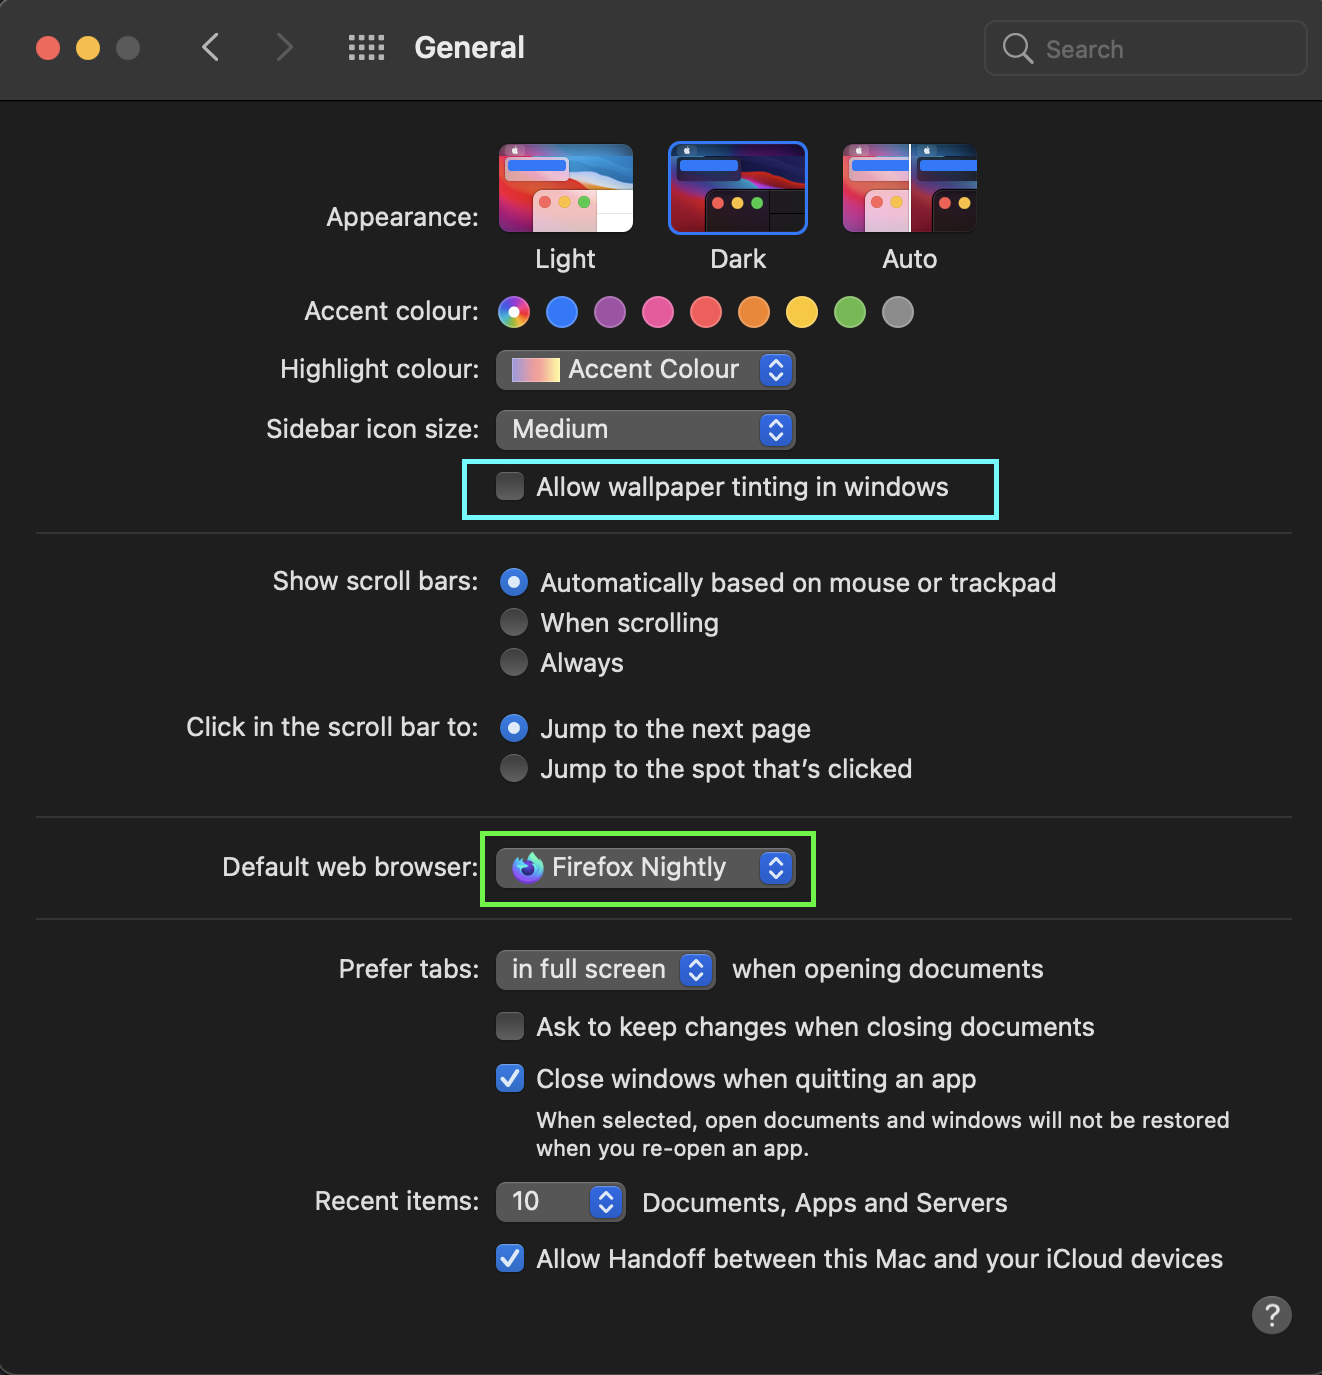
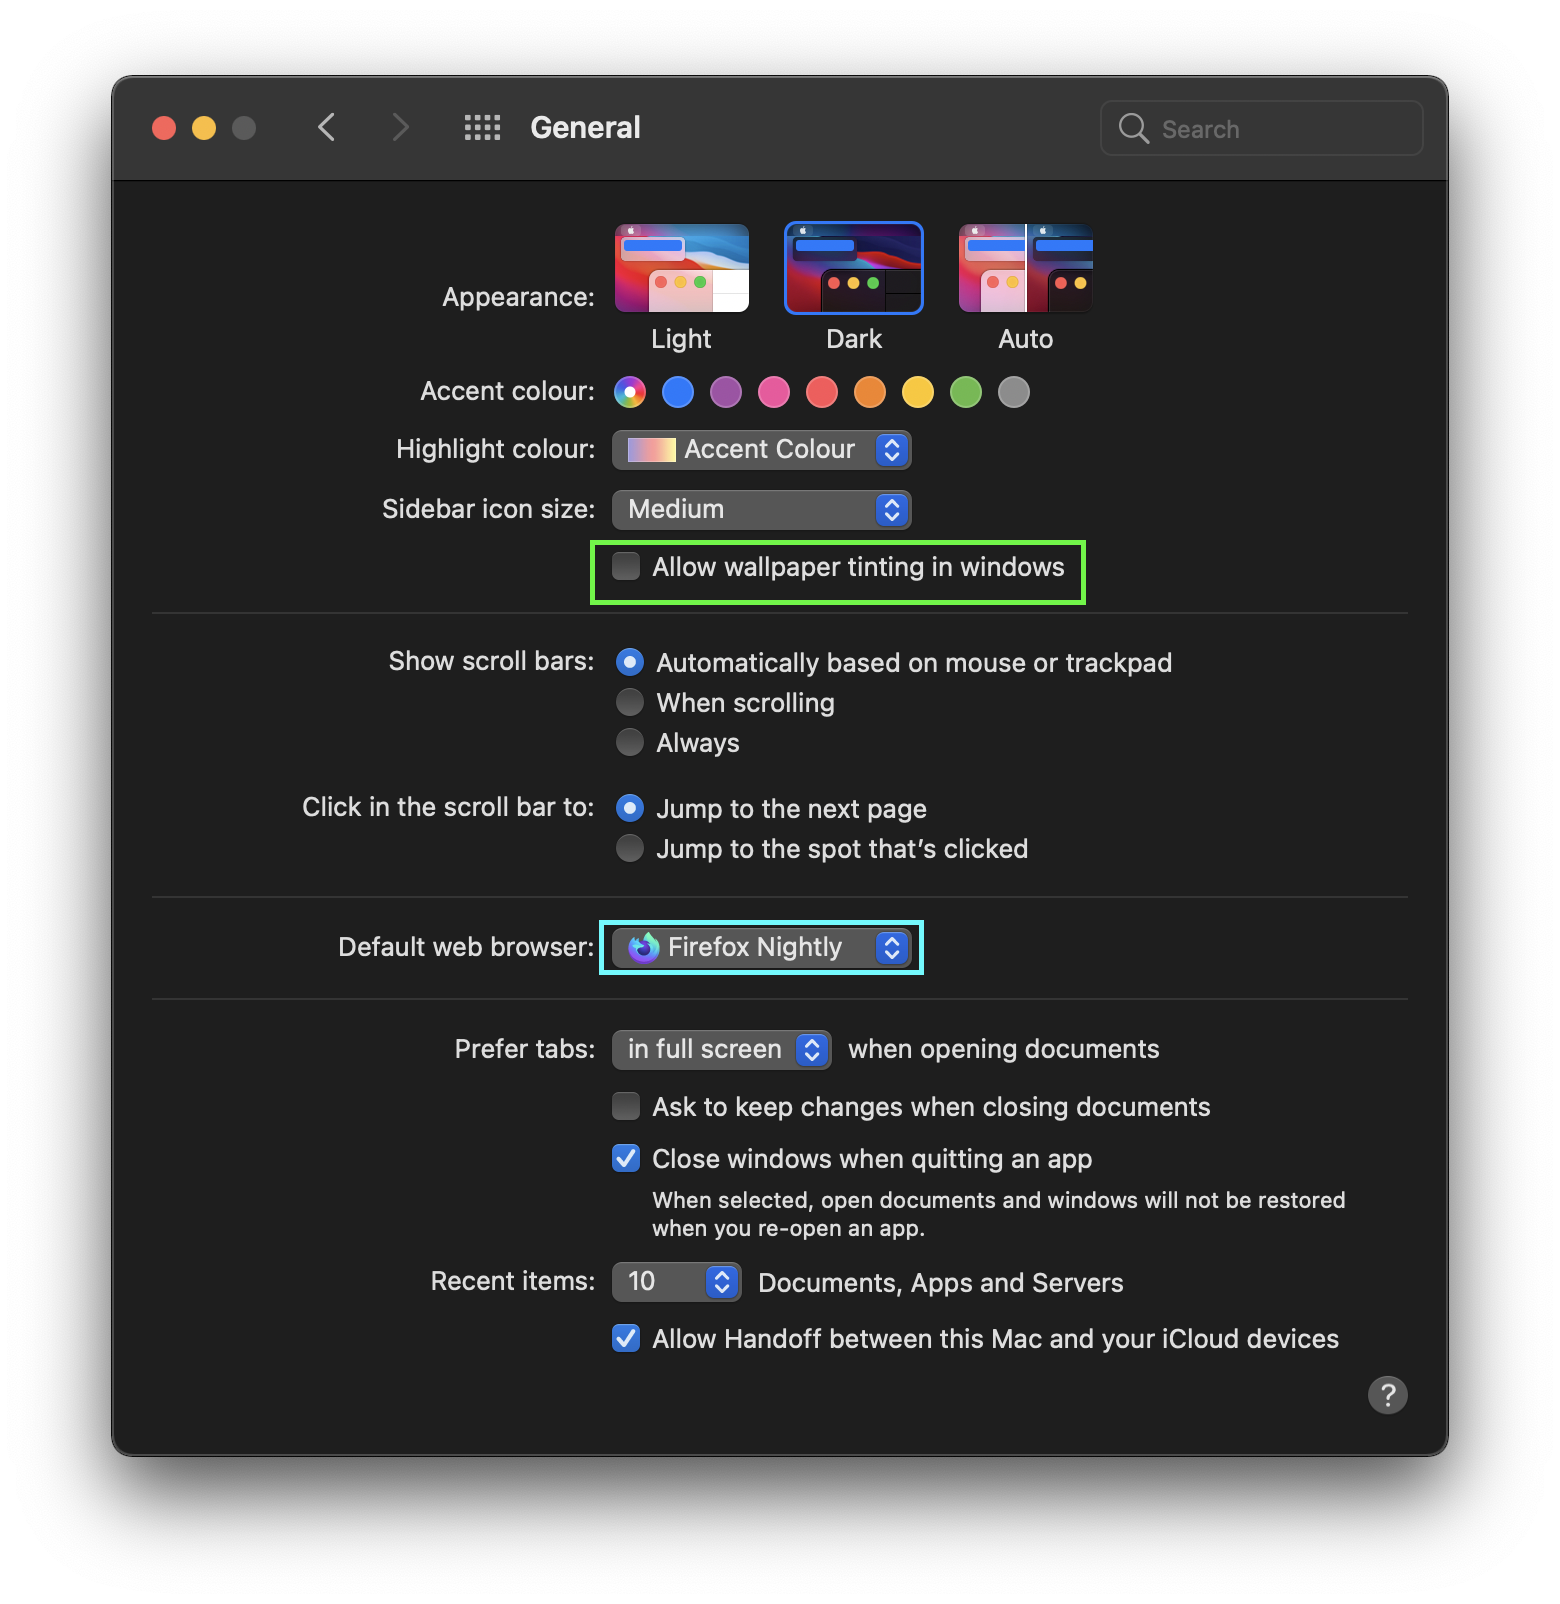
How to disable sound and better preferences image
Former-commit-id: 626c0b9fc9b241d5a25aa7ef2d450a51dc25d5a7

diff --git a/README.md b/README.md
@@ -48,7 +48,7 @@ _I mainly created this to always have my config with me, but I would really be h
 
 ### Install only brew 🍺
 
-_If you only need brew you can install it on your system whether it is x86_64 or arm just run this oneliner_
+*If you only need brew you can install it on your system whether it is x86_64 or arm just run this one-liner*
 
 ```bash
 curl -SL https://raw.githubusercontent.com/Jac-Zac/My-home-config/master/installer.sh >> installer.sh ; chmod +x installer.sh; ./installer.sh -b; rm installer.sh
@@ -93,6 +93,10 @@ _You should always keep your configuration up to date, luckily there is a straig
 - Absolutely disable wallpaper tinting in windows inside system preferences > general on macOS Big Sur 
 
 ![showcase](.assets/preference.png)
+
+- And if you are can't stand the annoying sound when you use tab completion change Sound configurations as showed below
+
+![showcase](.assets/sound.png)
 
 </details>
 
